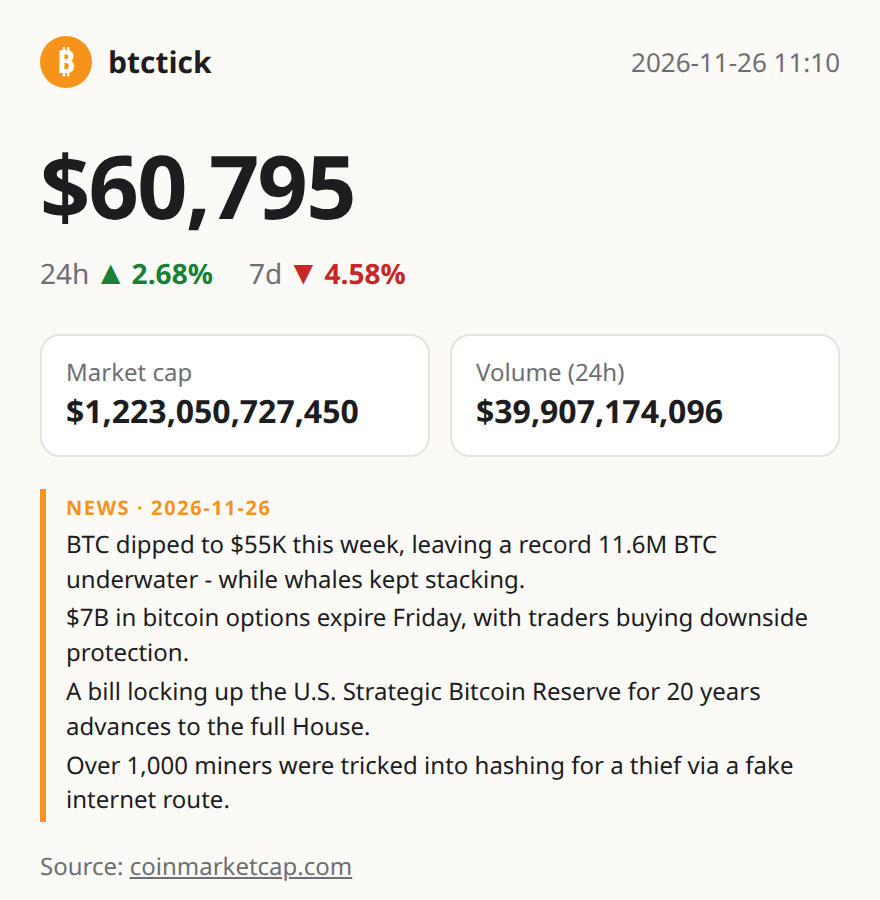
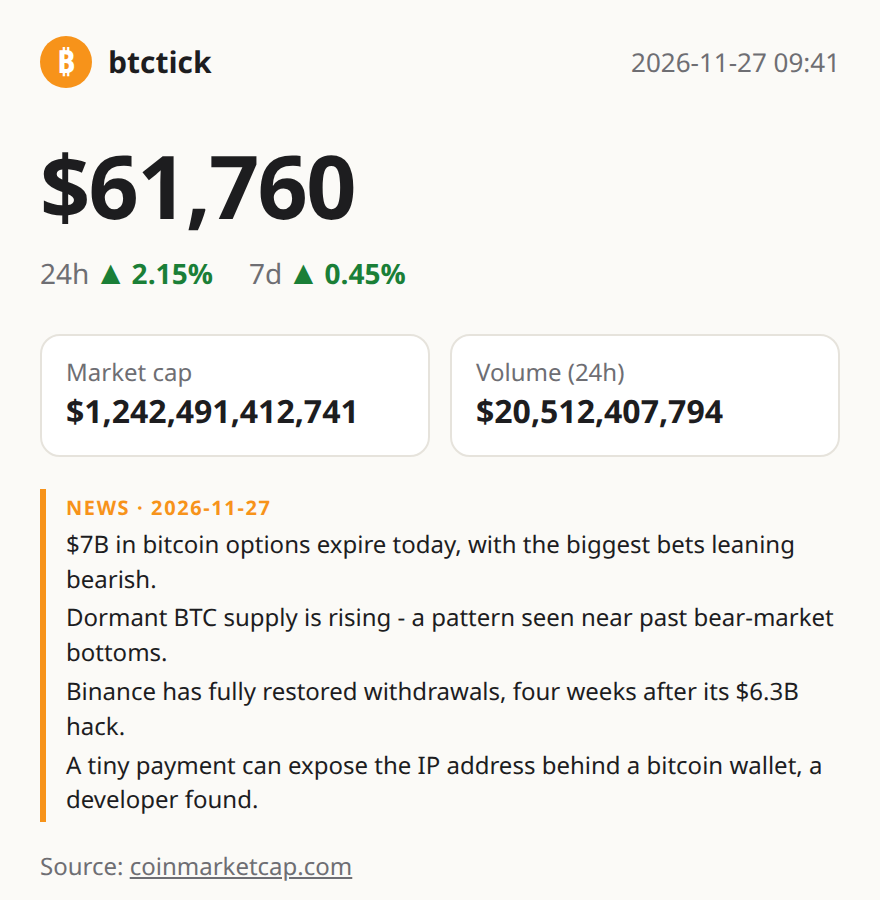
Nov 27 update: 24h/7d change in terminal, credits, news, screenshot
- Show 24h and 7d price change in the terminal output, in plain ASCII
  (+/-) for any shell; green/red only on color terminals.
- Drop the "Copyleft" notices; author is now @kammoji in the script
  header, and the README says "Since 2018 · Public domain".
- Refresh news, bump EDIT_DATE to 2026-11-27.
- Refresh docs/gui.png from a real -g run (BTC $61,760).
- Verified: syntax check, live USD/EUR parsing, colored and piped
  output, GUI page generation, -h, unknown-option error, cleanup.

diff --git a/README.md b/README.md
@@ -3,7 +3,7 @@
 <h1 align="center">btctick</h1>
 
 <p align="center"><b>Bitcoin market price ticker for Linux terminals</b><br>
-Copyleft - Juhana K 2018-2026 · Public domain</p>
+Since 2018 · Public domain</p>
 
 ### Happy Bitcoin bear year 2026!
 
